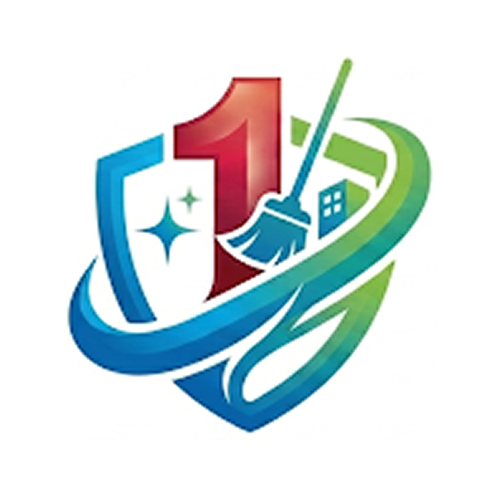
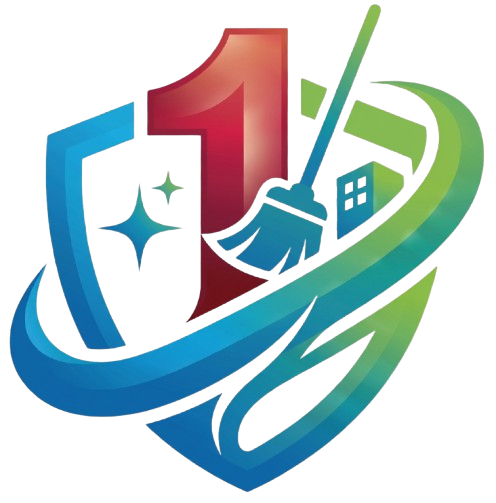
헤더 로고 및 메뉴 텍스트 크기 확대
- 로고: h-16/h-20으로 확대
- 메뉴 텍스트: text-base/text-lg로 확대
- 드롭다운 텍스트: text-base로 확대
- 이미지 sizes prop 전체 추가
- scroll-behavior data 속성 추가

diff --git a/components/Header.tsx b/components/Header.tsx
@@ -68,8 +68,9 @@ export default function Header() {
               src="/logo.png"
               alt="더퍼스트클린"
               width={200}
-              height={64}
-              className="h-14 md:h-16 w-auto object-contain"
+              height={200}
+              className="h-16 md:h-20 w-auto object-contain"
+              style={{ width: 'auto' }}
               priority
             />
           </Link>
@@ -85,7 +86,7 @@ export default function Header() {
               >
                 <Link
                   href={item.href}
-                  className={`px-3 lg:px-4 py-2 text-sm lg:text-base font-medium rounded-lg transition-colors duration-200 whitespace-nowrap flex items-center gap-1
+                  className={`px-3 lg:px-4 py-2 text-base lg:text-lg font-medium rounded-lg transition-colors duration-200 whitespace-nowrap flex items-center gap-1
                     ${pathname.startsWith(item.href) && item.href !== '/'
                       ? 'text-[#0a3d7a] bg-blue-50'
                       : 'text-gray-700 hover:text-[#0a3d7a] hover:bg-blue-50'
@@ -110,7 +111,7 @@ export default function Header() {
                       <Link
                         key={child.href}
                         href={child.href}
-                        className={`block px-5 py-3 text-sm font-medium whitespace-nowrap border-b border-gray-50 last:border-0 transition-colors
+                        className={`block px-5 py-3 text-base font-medium whitespace-nowrap border-b border-gray-50 last:border-0 transition-colors
                           ${pathname === child.href
                             ? 'bg-blue-50 text-[#0a3d7a]'
                             : 'text-gray-700 hover:bg-blue-50 hover:text-[#0a3d7a]'

diff --git a/components/ServicePageTemplate.tsx b/components/ServicePageTemplate.tsx
@@ -78,7 +78,7 @@ export default function ServicePageTemplate({
                   <div key={area.name} className="bg-gray-50 rounded-2xl overflow-hidden">
                     <div className="relative h-[500px] bg-gradient-to-br from-gray-800 to-[#0a3d7a]">
                       {area.img.startsWith('/') ? (
-                        <Image src={area.img} alt={area.name} fill className="object-cover" />
+                        <Image src={area.img} alt={area.name} fill sizes="(max-width: 1024px) 100vw, 50vw" className="object-cover" />
                       ) : (
                         <div className="flex items-center justify-center h-full">
                           <p className="text-gray-400 text-xs text-center px-3">{area.img}</p>

diff --git a/app/home-care/move-out/page.tsx b/app/home-care/move-out/page.tsx
@@ -44,7 +44,7 @@ export default function MoveOutPage() {
               {recommendItems.map((item) => (
                 <div key={item.title} className="bg-white rounded-2xl p-6 shadow-sm text-center">
                   <div className="relative h-72 rounded-xl mb-4 overflow-hidden">
-                    <Image src={item.img} alt={item.title} fill className="object-cover" />
+                    <Image src={item.img} alt={item.title} fill sizes="(max-width: 1024px) 100vw, 50vw" className="object-cover" />
                   </div>
                   <h4 className="font-bold text-gray-900 mb-2">{item.title}</h4>
                   <p className="text-gray-600 text-sm leading-relaxed">{item.desc}</p>

diff --git a/app/home-care/move-in/page.tsx b/app/home-care/move-in/page.tsx
@@ -62,7 +62,7 @@ export default function MoveInPage() {
               {recommendItems.map((item) => (
                 <div key={item.title} className="bg-white rounded-2xl p-6 shadow-sm text-center">
                   <div className="relative h-72 rounded-xl mb-4 overflow-hidden">
-                    <Image src={item.img} alt={item.title} fill className="object-cover" />
+                    <Image src={item.img} alt={item.title} fill sizes="(max-width: 1024px) 100vw, 50vw" className="object-cover" />
                   </div>
                   <h4 className="font-bold text-gray-900 mb-2">{item.title}</h4>
                   <p className="text-gray-600 text-sm leading-relaxed">{item.desc}</p>

diff --git a/app/building-cleaning/page.tsx b/app/building-cleaning/page.tsx
@@ -85,7 +85,7 @@ export default function BuildingCleaningPage() {
                 <div key={service.id} className="grid grid-cols-1 lg:grid-cols-2 gap-10 items-start">
                   <div className={`pt-10 ${index % 2 === 1 ? 'lg:order-2' : ''}`}>
                     <div className="relative h-72 rounded-2xl overflow-hidden">
-                      <Image src={service.img} alt={service.title} fill className="object-cover" />
+                      <Image src={service.img} alt={service.title} fill sizes="(max-width: 1024px) 100vw, 50vw" className="object-cover" />
                     </div>
                   </div>
                   <div className={index % 2 === 1 ? 'lg:order-1' : ''}>

diff --git a/app/office-cleaning/page.tsx b/app/office-cleaning/page.tsx
@@ -69,7 +69,7 @@ export default function OfficeCleaningPage() {
                 <div key={service.id} className="grid grid-cols-1 lg:grid-cols-2 gap-10 items-start">
                   <div className={`pt-10 ${index % 2 === 1 ? 'lg:order-2' : ''}`}>
                     <div className="relative h-72 rounded-2xl overflow-hidden">
-                      <Image src={service.img} alt={service.title} fill className="object-cover" />
+                      <Image src={service.img} alt={service.title} fill sizes="(max-width: 1024px) 100vw, 50vw" className="object-cover" />
                     </div>
                   </div>
                   <div className={index % 2 === 1 ? 'lg:order-1' : ''}>

diff --git a/components/TestimonialSlider.tsx b/components/TestimonialSlider.tsx
@@ -38,7 +38,7 @@ function Slider({ visible }: { visible: number }) {
             >
               {reviewImages.slice(pageIdx * visible, pageIdx * visible + visible).map((src, i) => (
                 <div key={i} className="relative aspect-[1/2] rounded-2xl overflow-hidden shadow-md">
-                  <Image src={src} alt={`고객 후기 ${pageIdx * visible + i + 1}`} fill className="object-cover" />
+                  <Image src={src} alt={`고객 후기 ${pageIdx * visible + i + 1}`} fill sizes="(max-width: 768px) 100vw, 33vw" className="object-cover" />
                 </div>
               ))}
             </div>

diff --git a/app/home-care/page.tsx b/app/home-care/page.tsx
@@ -94,7 +94,7 @@ export default function HomeCarePage() {
                 >
                   <div className={index % 2 === 1 ? 'lg:order-2' : ''}>
                     <div className="relative h-96 rounded-3xl overflow-hidden">
-                      <Image src={service.img} alt={service.title} fill className="object-cover" />
+                      <Image src={service.img} alt={service.title} fill sizes="(max-width: 1024px) 100vw, 50vw" className="object-cover" />
                     </div>
                   </div>
                   <div className={index % 2 === 1 ? 'lg:order-1' : ''}>

diff --git a/app/quote/page.tsx b/app/quote/page.tsx
@@ -27,7 +27,7 @@ export default function QuotePage() {
             {/* 안내 박스 */}
             <div className="grid grid-cols-1 sm:grid-cols-3 gap-4 mb-12">
               {[
-                { icon: '📞', title: '전화 상담', desc: '평일 09:00 ~ 18:00' },
+                { icon: '📞', title: '전화 상담', desc: '매일 08:00 ~ 22:00' },
                 { icon: '💬', title: '카카오 상담', desc: '24시간 문의 가능' },
                 { icon: '📝', title: '온라인 견적', desc: '24시간 접수 가능' },
               ].map((item) => (

diff --git a/app/layout.tsx b/app/layout.tsx
@@ -41,7 +41,7 @@ export default function RootLayout({
   children: React.ReactNode;
 }>) {
   return (
-    <html lang="ko" className="h-full">
+    <html lang="ko" className="h-full" data-scroll-behavior="smooth">
       <head>
         <meta name="google-site-verification" content="gwx0k8y9B1YGXW7Klu0Ab2goqjhXlZhNXAOKKkTFwPo" />
         <meta name="naver-site-verification" content="95ad1f3b740a36ab8a9cb8d17c8e2d01052bff77" />

diff --git a/app/page.tsx b/app/page.tsx
@@ -145,6 +145,7 @@ export default function HomePage() {
                       src={service.img}
                       alt={service.title}
                       fill
+                      sizes="(max-width: 768px) 100vw, 33vw"
                       className="object-cover group-hover:scale-105 transition-transform duration-300"
                     />
                   </div>

diff --git a/components/CleaningGallerySection.tsx b/components/CleaningGallerySection.tsx
@@ -85,6 +85,7 @@ export default function CleaningGallerySection() {
                   src={img.src}
                   alt={img.caption}
                   fill
+                  sizes="(max-width: 768px) 50vw, 25vw"
                   className="object-cover group-hover:scale-105 transition-transform duration-300"
                 />
               </div>
